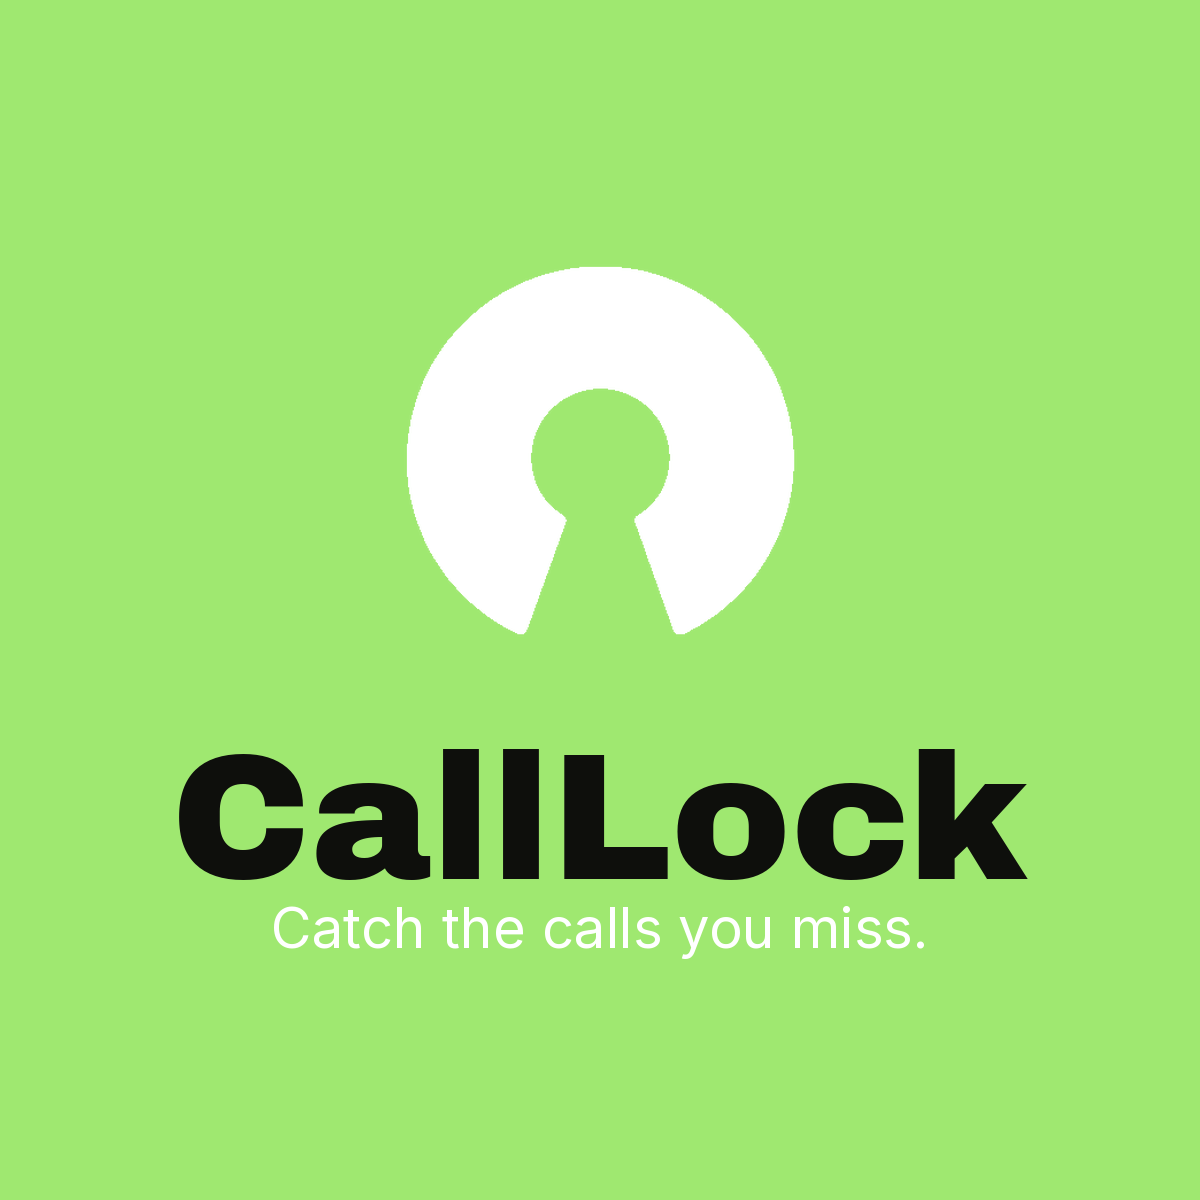
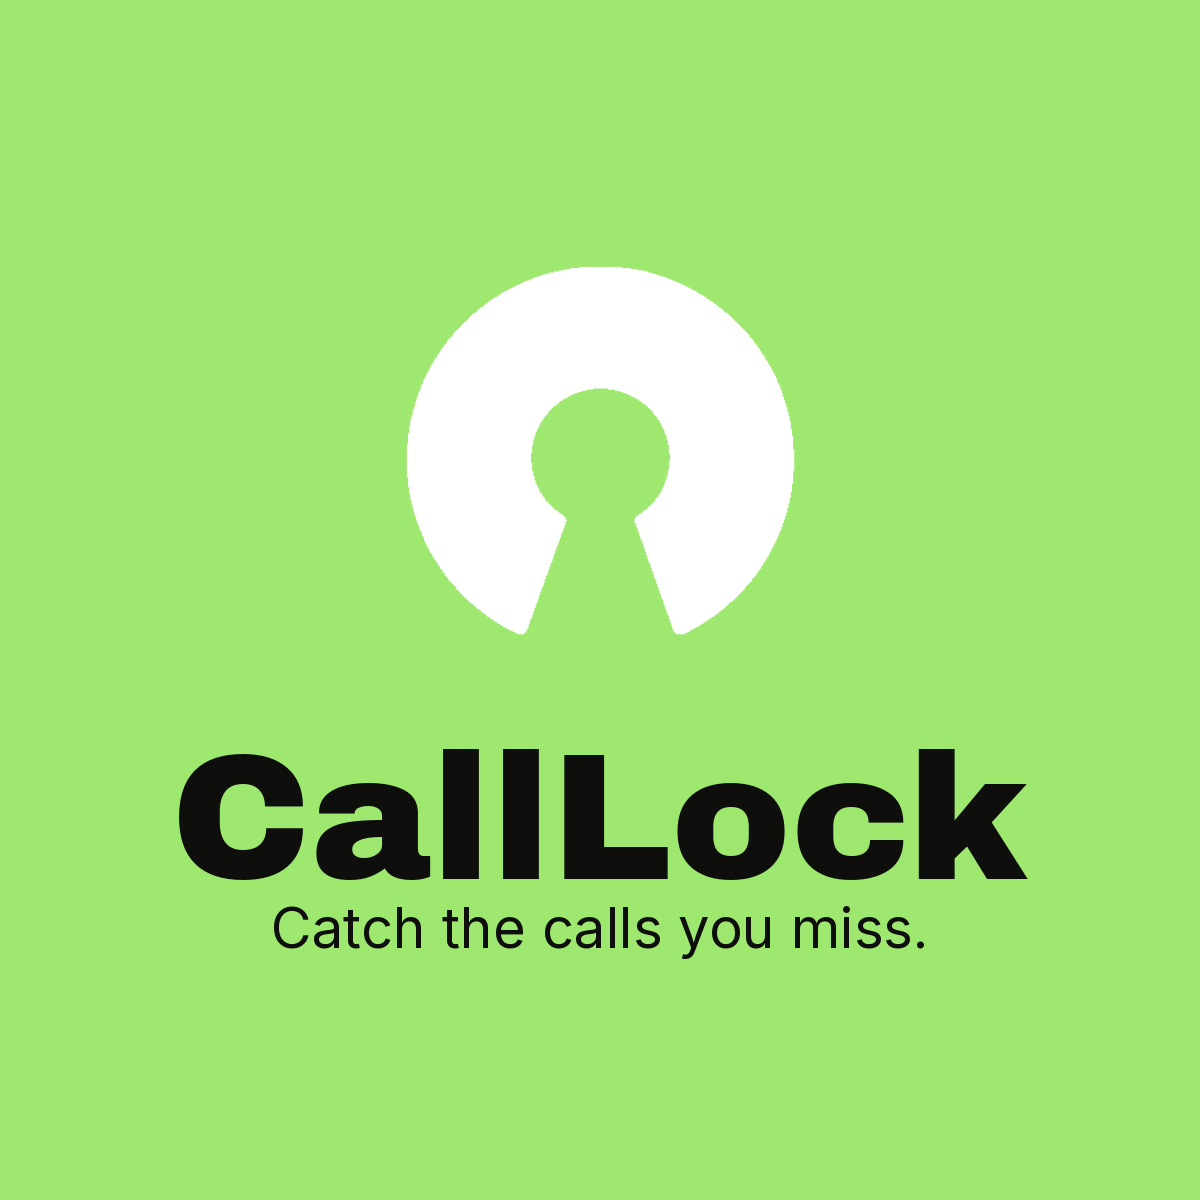
og: black subline; set <title>/og:site_name to 'CallLock'
- Regenerated calllock-og.png with black subline (was white).
- HTML <title> now 'CallLock' only. Added og:site_name so Apple's
  LPLinkPresentation has a cleaner signal than just og:title.

Changed region(s): [[0.37, 0.74, 0.7708, 0.8017], [0.2158, 0.74, 0.3392, 0.8017]]

diff --git a/src/app/layout.tsx b/src/app/layout.tsx
@@ -33,8 +33,8 @@ const jetbrainsMono = JetBrains_Mono({
 });
 
 export const metadata: Metadata = {
-  title: "CallLock — Catch the calls you miss.",
-  description: "Your AI receptionist answers when you can't. Books the job, texts you the details in 30 seconds.",
+  title: "CallLock",
+  description: "Catch the calls you miss.",
   icons: {
     icon: "/calllock-mark.png",
     apple: "/calllock-mark.png",
@@ -42,6 +42,7 @@ export const metadata: Metadata = {
   openGraph: {
     type: "website",
     url: "https://calllock.co/",
+    siteName: "CallLock",
     title: "CallLock",
     description: "Catch the calls you miss.",
     images: [
